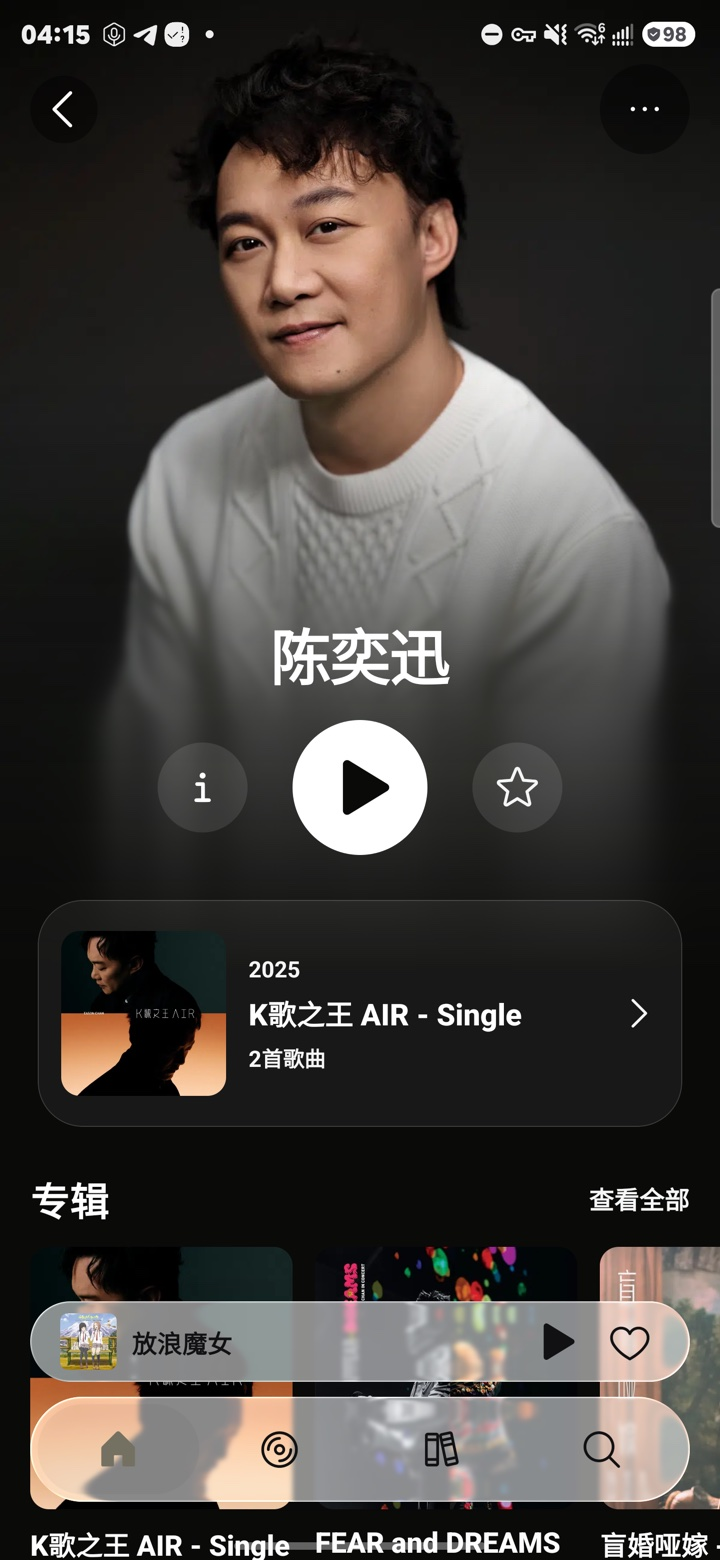
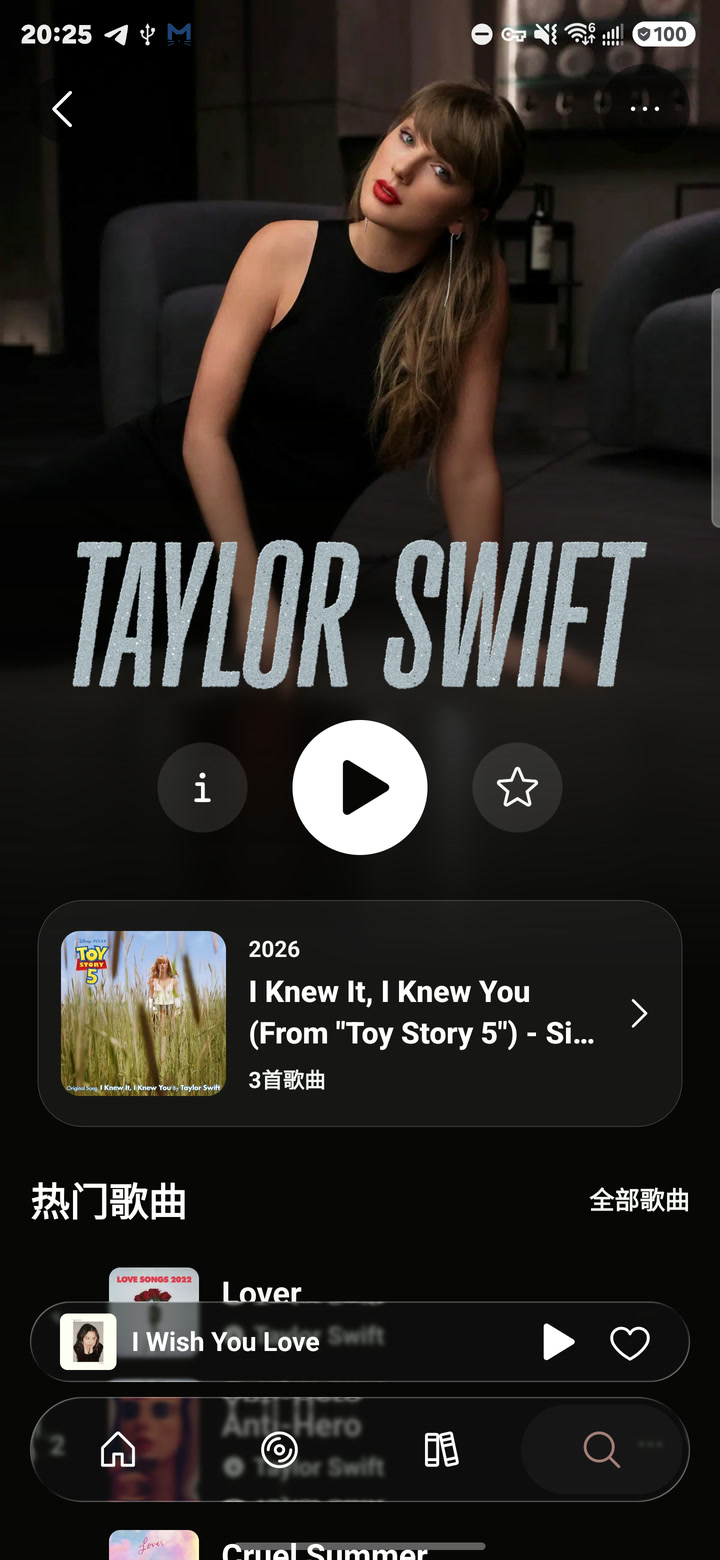
docs: refresh bilingual Samsung gallery with requested pages and dock GIF

diff --git a/README.en.md b/README.en.md
@@ -40,18 +40,18 @@ These features describe the released Glass baseline. Development previews may ch
 
 ## UI preview
 
-Recent Resonus Glass screenshots captured on a Samsung device, showing pages and optional layouts retained in the current version. Theme, song and glass settings vary between captures; library content is illustrative. Artist/album imagery is media shown in the screenshots and is not bundled with the app.
+Resonus Glass screens and interactions captured on a Samsung device, showing pages and optional layouts in the `glass` branch. Theme, song and glass settings vary between captures; library content is illustrative. Artist/album imagery is media shown in these captures and is not bundled with the app.
 
 <table>
   <tr>
-    <td align="center"><img src="./assets/screenshots/gallery-20261101/artist-page.jpg" width="230" alt="Resonus Glass artist page with full-width photo, color transition and playback actions" /><br /><strong>Artist page</strong><br />Full-width photo and artwork-derived background</td>
-    <td align="center"><img src="./assets/screenshots/gallery-20261101/album-artist-layout.jpg" width="230" alt="Resonus Glass album page using the full-width artist-style layout" /><br /><strong>Artist-style album</strong><br />A shared header language for artists and playlists</td>
-    <td align="center"><img src="./assets/screenshots/gallery-20261101/playlist-collapsed-dock.jpg" width="230" alt="Resonus Glass playlist with compact scroll title and collapsed glass dock" /><br /><strong>Playlist and compact dock</strong><br />Scroll-linked title, tabs and Mini Player</td>
+    <td align="center"><img src="./assets/screenshots/gallery-20261101/artist-page.jpg" width="230" alt="Taylor Swift artist page in Resonus Glass" /><br /><strong>Artist page · Taylor Swift</strong><br />Full-width photo and artwork-derived background</td>
+    <td align="center"><img src="./assets/screenshots/gallery-20261101/album-artist-layout.jpg" width="230" alt="Qi Li Xiang album page in Resonus Glass" /><br /><strong>Album page · 七里香</strong><br />Artist-style full-width layout</td>
+    <td align="center"><img src="./assets/screenshots/gallery-20261101/dock-interaction.gif" width="230" alt="Resonus Glass Bottom Tabs and Mini Player folding and unfolding during scrolling" /><br /><strong>Dock interaction</strong><br />Coordinated Mini Player and Bottom Tabs</td>
   </tr>
   <tr>
-    <td align="center"><img src="./assets/screenshots/gallery-20261101/player.jpg" width="230" alt="Resonus Glass player with album art, artwork-colored background and playback controls" /><br /><strong>Player</strong><br />Artwork colors and readable controls</td>
+    <td align="center"><img src="./assets/screenshots/gallery-20261101/player.jpg" width="230" alt="Resonus Glass player for Above the Chinese Restaurant" /><br /><strong>Player</strong><br />Above the Chinese Restaurant</td>
+    <td align="center"><img src="./assets/screenshots/gallery-20261101/lyrics.jpg" width="230" alt="Synchronized lyrics for Above the Chinese Restaurant in Resonus Glass" /><br /><strong>Synchronized lyrics</strong><br />Above the Chinese Restaurant</td>
     <td align="center"><img src="./assets/screenshots/gallery-20261101/appearance-options.jpg" width="230" alt="Resonus Glass Appearance settings with Apple Music, Spotify and album layout choices" /><br /><strong>Layout choices</strong><br />Apple Music/Spotify, album and playlist styles</td>
-    <td align="center"><img src="./assets/screenshots/gallery-20261101/download-manager.jpg" width="230" alt="Resonus Glass download manager showing an empty queue and batch start, pause and cancel actions" /><br /><strong>Download manager</strong><br />Queue overview and batch actions</td>
   </tr>
 </table>
 
@@ -61,8 +61,11 @@ Choose Artist page layout, Volta or Minidisc under **Settings → Appearance →
 
 | Channel | Version | Android version code | Availability |
 | --- | --- | --- | --- |
+| Current source | `0.8.5.2-preview.3` | `135` | `glass` branch, no Release published · [Background caching notes](./docs/BACKGROUND-CACHE-PREVIEW-135.md) |
 | Stable | `0.8.5.1` | `132` | [Release and APK](https://github.com/zskruc/resonus-glass/releases/tag/v0.8.5.1) · [Changes and validation](./docs/RELEASE-0.8.5.1.md) |
 | Test prerelease | `0.8.5.1-preview.6` | `128` | [Release and APK](https://github.com/zskruc/resonus-glass/releases/tag/v0.8.5.1-preview.6) · [Changes and validation](./docs/ALBUM-ARTIST-PREVIEW-6.md) |
+
+The current `glass` source adds bounded repeat-detail navigation and palette caches, coordinated detail-page reveal/exit fixes, and locked-screen/background caching for artwork, lyrics and offline music. Existing player layout and glass profiles remain. See the [memory/detail-scene notes](./docs/MEMORY-SCENE-PREVIEW-134.md) and [background caching notes](./docs/BACKGROUND-CACHE-PREVIEW-135.md) for implementation and Samsung validation scope. This update publishes source only, **without a new Release**; stable downloads and in-app update checks still use `0.8.5.1`.
 
 `0.8.5.1` moves artist photos at about 0.4 times content displacement, following the available reference frames. The complete photo, static blurred continuation and shared mask move in one persistent layer; compact titles hand over based on the measured name/wordmark bounds. Albums and playlists using Artist page layout share this behavior. Android releases native mask bitmaps when their views detach and rebuilds them on return. See the [release notes](./docs/RELEASE-0.8.5.1.md) for scope and performance-validation limits.
 
@@ -92,7 +95,7 @@ The current preview updates artist navigation transitions and name artwork, Volt
 
 `.27` adds an optional [Volta](https://github.com/countervolts/Volta)-inspired **Apple Music style** under **Settings → Appearance → UI style**, alongside **Spotify style**. Home, Library, artist and album/playlist pages use alternate layouts while retaining the existing player, glass profiles and user data. See the [dual UI preview scope and validation](./docs/VOLTA-UI-PREVIEW.md). Earlier preview notes below remain development history.
 
-The current stable release is `v0.8.5.1`; its source is synchronized to `glass`, with each tag preserving its release snapshot. The previous `.preview.6` test package remains available. Its native player combines [AMLL](https://github.com/amll-dev/applemusic-like-lyrics)-derived controls and SVGs with independently implemented cover/lyric views and a moving artwork-field background. Settings → Player → Player layout restores the previous Resonus layout; the Player background option below applies only to that layout. See the [third-party notices](./THIRD_PARTY_NOTICES.md#amll-player-controls-and-artwork-background-reference) and [preview guide](./docs/AMLL-PLAYER-PREVIEW.md) for the controls/assets’ **AGPL-3.0-only** provenance, retained original licenses and implementation boundaries.
+The current stable release is `v0.8.5.1`, with each tag preserving its release snapshot. The `glass` branch also includes the unreleased fixes listed above. The previous `.preview.6` test package remains available. Its native player combines [AMLL](https://github.com/amll-dev/applemusic-like-lyrics)-derived controls and SVGs with independently implemented cover/lyric views and a moving artwork-field background. Settings → Player → Player layout restores the previous Resonus layout; the Player background option below applies only to that layout. See the [third-party notices](./THIRD_PARTY_NOTICES.md#amll-player-controls-and-artwork-background-reference) and [preview guide](./docs/AMLL-PLAYER-PREVIEW.md) for the controls/assets’ **AGPL-3.0-only** provenance, retained original licenses and implementation boundaries.
 
 `.15` retains five changes from `.14`: remove the player/lyric top handle while retaining header space, pull-down dismissal and accessible closing on the artwork; remove shuffle/repeat buttons while leaving previous/play-pause/next in their original positions, with modes still in More; retain painted dock progress until its origin scope is restored and preserve the origin's selected-lens opacity; prepare word masks only for the current and next lyric rows, delaying next-row preparation by 720ms without changing blur, optics or lyric timing; show a complete saved playlist mirror while refreshing HTTP in the background, reuse offline metadata without duplicate SQL and limit local queries to the current playlist IDs. A first opening without saved data can still wait; instant loading is not guaranteed.
 
